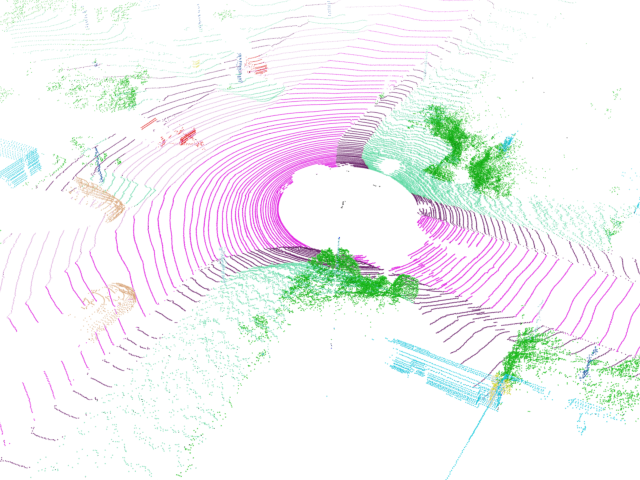
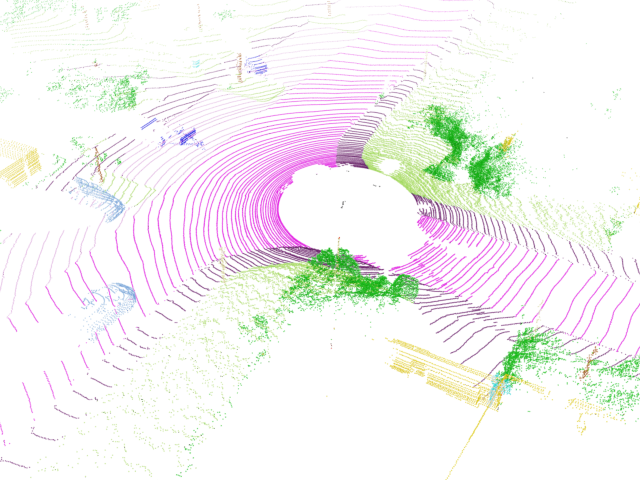
Move config, fix color BGR/RGB, rename blender_kitti_examples

diff --git a/blender_kitti_examples/data.py b/blender_kitti_examples/data.py
@@ -35,7 +35,8 @@ def read_semantic_kitti_voxel_label(semantic_kitti_sample) -> {str: np.ndarray}:
 
 
 def get_semantic_kitti_config():
-    file_config_semantic = pathlib.Path(__file__).parent.parent / 'config' / 'semantic-kitti.yaml'
+    file_config_semantic = pathlib.Path(__file__).parent.parent / 'data' / 'config' / \
+                           'semantic-kitti.yaml'
     if not file_config_semantic.is_file():
         raise FileNotFoundError("Cannot find semantic kitti config file.")
 
@@ -61,6 +62,8 @@ def get_semantic_kitti_voxels():
     voxel_label = np.vectorize(mapping.get, otypes=[np.int16])(data['label'])
 
     semantic_colors = np.asarray([list(color_bgr[k]) for k in learning_map.keys()], np.uint8)
+    # BGR -> RGB
+    semantic_colors = semantic_colors[..., ::-1]
     color_grid = semantic_colors[voxel_label]
     return data['label'] != 0, color_grid
 
@@ -89,6 +92,9 @@ def get_semantic_kitti_point_cloud():
     learning_map = dict(config_data['learning_map'])
     mapping = {k: v for k, v in zip(learning_map.keys(), range(len(learning_map)))}
     semantic_colors = np.asarray([list(color_bgr[k]) for k in learning_map.keys()], np.uint8)
+    # BGR -> RGB
+    semantic_colors = semantic_colors[..., ::-1]
+    
     label = np.vectorize(mapping.get, otypes=[np.int16])(label_sem)
     colors = semantic_colors[label]
     return point_cloud[:, :3], colors

diff --git a/setup.py b/setup.py
@@ -7,7 +7,7 @@ setup(name='blender_kitti',
       author='Christoph Rist',
       author_email='c.rist@posteo.de',
       license='MIT',
-      packages=['blender_kitti', 'blender_kitti_example'],
+      packages=['blender_kitti', 'blender_kitti_examples'],
       zip_safe=False,
       install_requires=[
           'ruamel.yaml',
